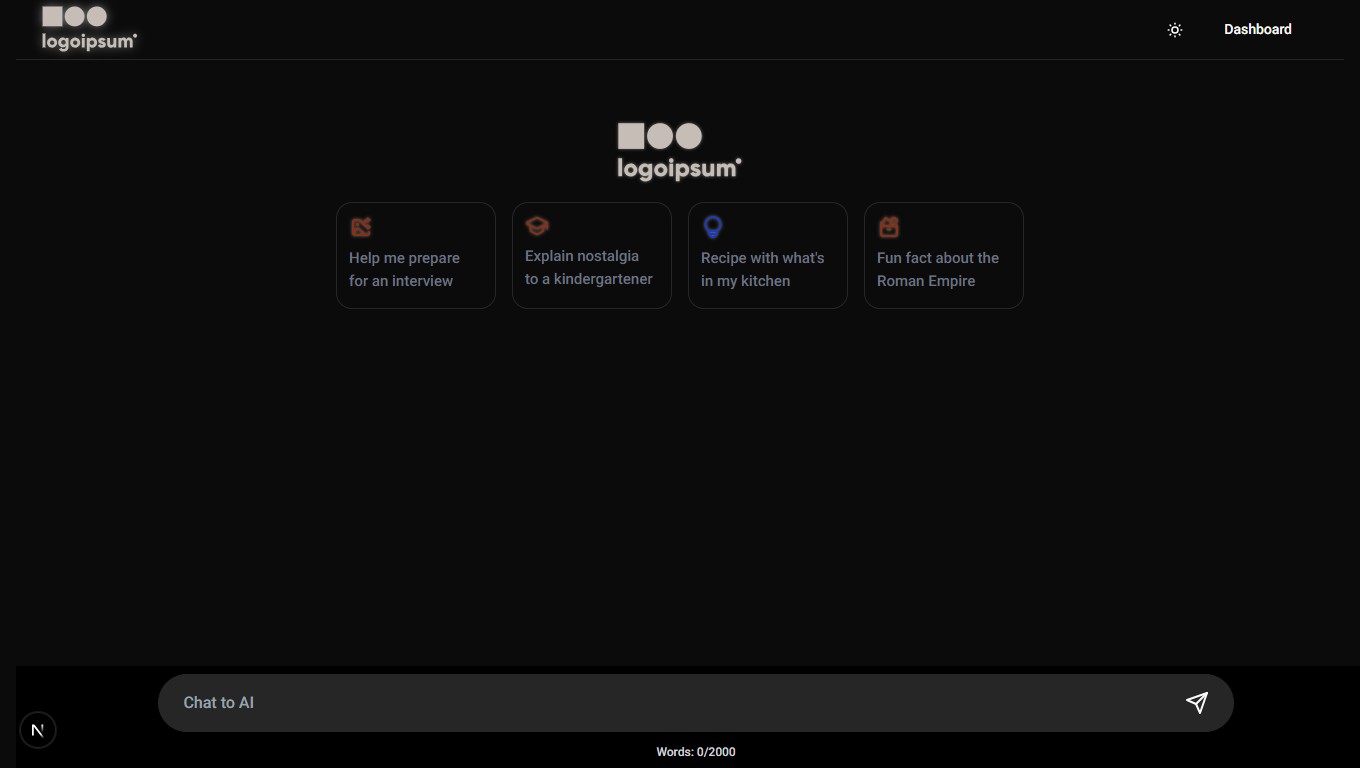
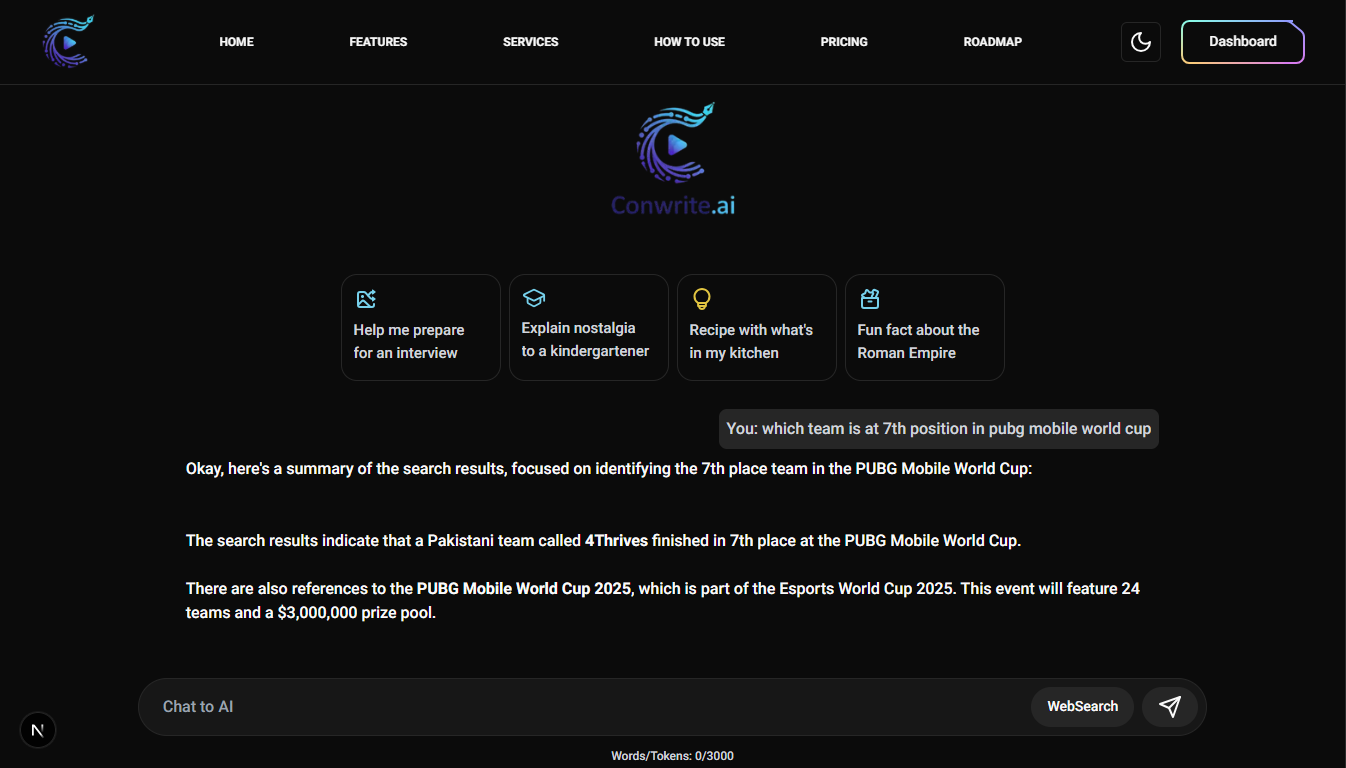
navbar fixed

diff --git a/components/Chat.tsx b/components/Chat.tsx
@@ -117,15 +117,15 @@ const Chat = () => {
 
     return (
         <>
-            <div className="mb-28 px-1 sm:px-12 flex flex-col justify-center items-center p-3 space-y-2">
-                <div className="flex mb-20 justify-center">
+            <div className="mb-28 px-1 sm:px-12 flex flex-col mt-24 justify-center items-center p-3 space-y-2">
+                {chatHistory?.length < 1 && <div className="flex mb-5 justify-center">
                     <div style={{ opacity: 1 }}>
-                        <div className="mx-3 mt-20 flex max-w-3xl flex-wrap items-stretch justify-center gap-4">
-                            <Image src={'/logo.png'} className='dark:drop-shadow-[0_0_0.1rem_#ffffff70] dark:invert' alt='logo' width={220} height={220} />
+                        <div className="mx-3 flex max-w-3xl flex-wrap items-stretch justify-center gap-2">
+                            <Image src={'/logo.png'} className='' alt='logo' width={220} height={220} />
                             <div className="flex max-md:hidden max-w-3xl flex-wrap items-stretch justify-center gap-2">
                                 {promptCard.map((i, _) => (
                                     <button key={_} onClick={() => setAiPrompt(i.prompt)} className="relative flex w-40 flex-col gap-2 rounded-2xl border border-token-border-light px-3 pb-4 pt-3 text-start align-top text-[15px] shadow-xxs transition enabled:hover:bg-token-main-surface-secondary disabled:cursor-not-allowed">
-                                        <Image src={i.img} className='dark:drop-shadow-[0_0_0.1rem_#ffffff70] dark:invert' alt='logo' width={24} height={24} />
+                                        <Image src={i.img} className='' alt='logo' width={24} height={24} />
                                         <div className="line-clamp-3 max-w-full text-balance text-gray-600 dark:text-gray-300 break-word">{i.prompt}
                                         </div>
                                     </button>
@@ -133,7 +133,7 @@ const Chat = () => {
                             </div>
                         </div>
                     </div>
-                </div>
+                </div>}
                 {/* <Button variant={'outline'} onClick={() => setChatHistory([])}>Clear Chat History</Button> */}
                 {initialChat.map((chat, index) => (
                     <div key={index} className="z md:w-[80%]">

diff --git a/components/design-components/Header.tsx b/components/design-components/Header.tsx
@@ -37,8 +37,8 @@ const Header = () => {
       className={`fixed top-0 left-0 w-full z-30 bg-background/80 border-b border-n-6 lg:backdrop-blur-sm `}
     >
       <div className="flex items-center justify-between px-5 lg:px-7.5 xl:px-10 max-lg:py-2">
-        <SmartLink className="block w-24 xl:mr-8" href="/">
-          <Image src={'/logo.png'} className="s" width={430} height={430} alt="Conwrite.ai" />
+        <SmartLink title="Conwrite.ai" className="block w-14 xl:mr-8" href="/">
+          <Image src={'/logo-icon.png'} width={130} height={130} alt="Conwrite.ai" />
         </SmartLink>
 
         <nav
